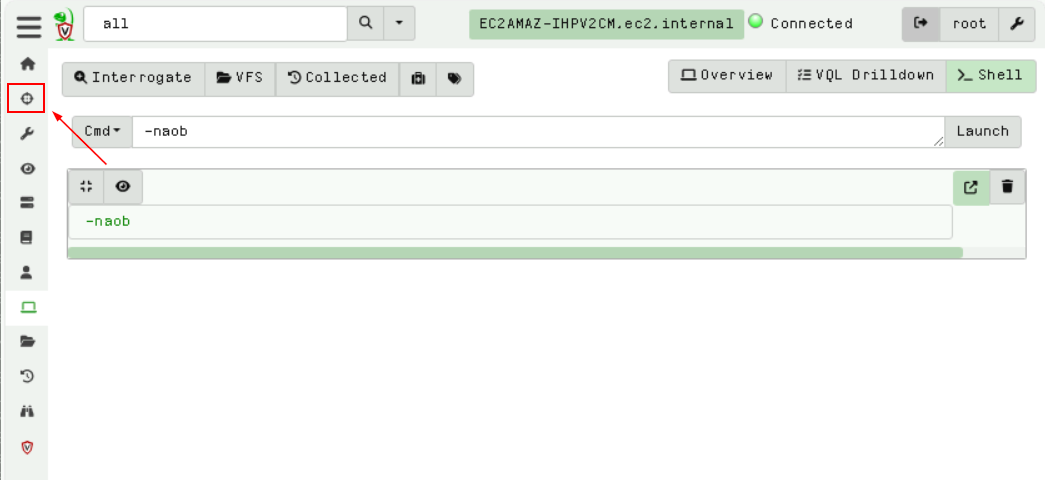
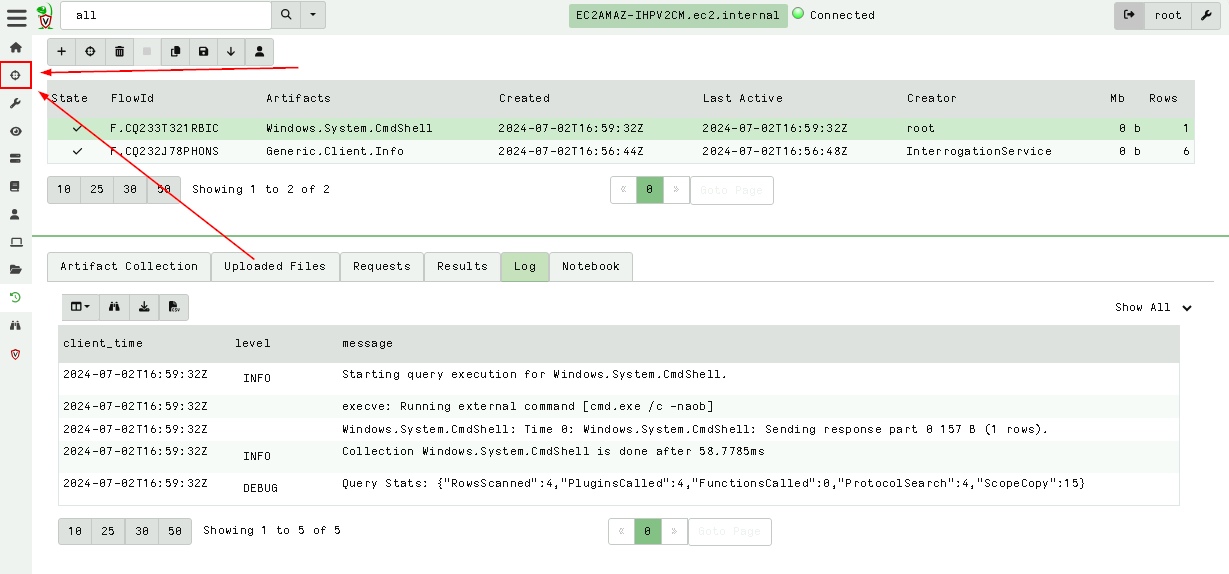
Velociraptor screenshots updated

diff --git a/IntroClassFiles/Tools/IntroClass/Velociraptor/Velociraptor.md b/IntroClassFiles/Tools/IntroClass/Velociraptor/Velociraptor.md
@@ -21,9 +21,7 @@ First, within Windows File Explorer navigate to the C:\IntroLabs directory:
 
 ![](attachment/Navintolabs.png)
 
-Now we will need to open a command prompt and change directories to the IntroLabs directory.
-
-First, lets open a Windows command prompt.
+Now, lets open a Windows command prompt.
 
 ![](attachment/openingcommandprompt%20-%20Copy.png)
 
@@ -35,7 +33,7 @@ For this installation, we are going to set up Velociraptor as a standalone deplo
 
 Let’s get started. Within the command prompt, run the following command:
 
-<pre>velociraptor-v0.5.5-1-windows-amd64.exe config generate -i</pre>
+<pre>velociraptor-v0.72.3-windows-amd64.exe config generate -i</pre>
 
 When it asks about the OS, please choose Windows.  It should be the default.
 
@@ -88,7 +86,7 @@ When it asks where to write the server and client configs, just hit enter on bot
 
 Now, let’s add a GUI user.
 
-<pre>velociraptor-v0.5.5-1-windows-amd64.exe --config server.config.yaml user add root --role administrator</pre>
+<pre>velociraptor-v0.72.3-windows-amd64.exe --config server.config.yaml user add root --role administrator</pre>
 
 When it asks for the password, please choose a password you will remember.
 
@@ -99,12 +97,12 @@ When finished, it should look similar to
 
 Now, lets run the msi to load the proper files to the proper directories:
 
-<pre>velociraptor-v0.5.5-1-windows-amd64.msi</pre>
+<pre>velociraptor-v0.72.3-windows-amd64.msi</pre>
 
 
 Now, let's start the server.
 
-<pre>velociraptor-v0.5.5-1-windows-amd64.exe --config server.config.yaml frontend -v</pre>
+<pre>velociraptor-v0.72.3-windows-amd64.exe --config server.config.yaml frontend -v</pre>
 
 This will take some time, be patient.
 There will be some red text.  Don’t panic.
@@ -123,7 +121,6 @@ Select Advanced then proceed to 127.0.0.1
 
 When it asks for the Username and Password, please enter root and the password you chose earlier.
 
-Please select Inspect the server's state.
 
 ![](attachment/velociraptor_login.png)
 
@@ -143,13 +140,13 @@ Then Navigate to the IntroLabs directory.
 
 Next, we will need to start the client.  To do this will need to run the MSI first.
 
-<pre>velociraptor-v0.5.5-1-windows-amd64.msi</pre>
+<pre>velociraptor-v0.72.3-windows-amd64.msi</pre>
 
 When you get the pop up, select Run.  This will install the proper libraries and files.
 
 Next, we will start the client.
 
-<pre>velociraptor-v0.5.5-1-windows-amd64.exe --config client.config.yaml client -v</pre>
+<pre>velociraptor-v0.72.3-windows-amd64.exe --config client.config.yaml client -v</pre>
 
 It will look something like this:
 
@@ -208,6 +205,16 @@ Now, enter netstat -naob in the Cmd box and select Launch.
 ![](attachment/velociraptor_naob.png)
 
 This will not display the results right away. To see the results, select the Eye icon with your netstat command below:
+
+![](attachment/velociraptor_eye.png)
+
+Then click on `Logs`
+
+![](attachment/velociraptor_clicklogs.png)
+
+After doing so, you should see something like this:
+
+![](attachment/velociraptor_viewlogs.png)
 
 Now, let’s do a Hunt.   Please select the Hunt icon.
 
@@ -328,7 +335,7 @@ Want to try something cool?  Run a Metrepreter agent on you Windows system.  The
 
 
 
-`
+
 
 
 
